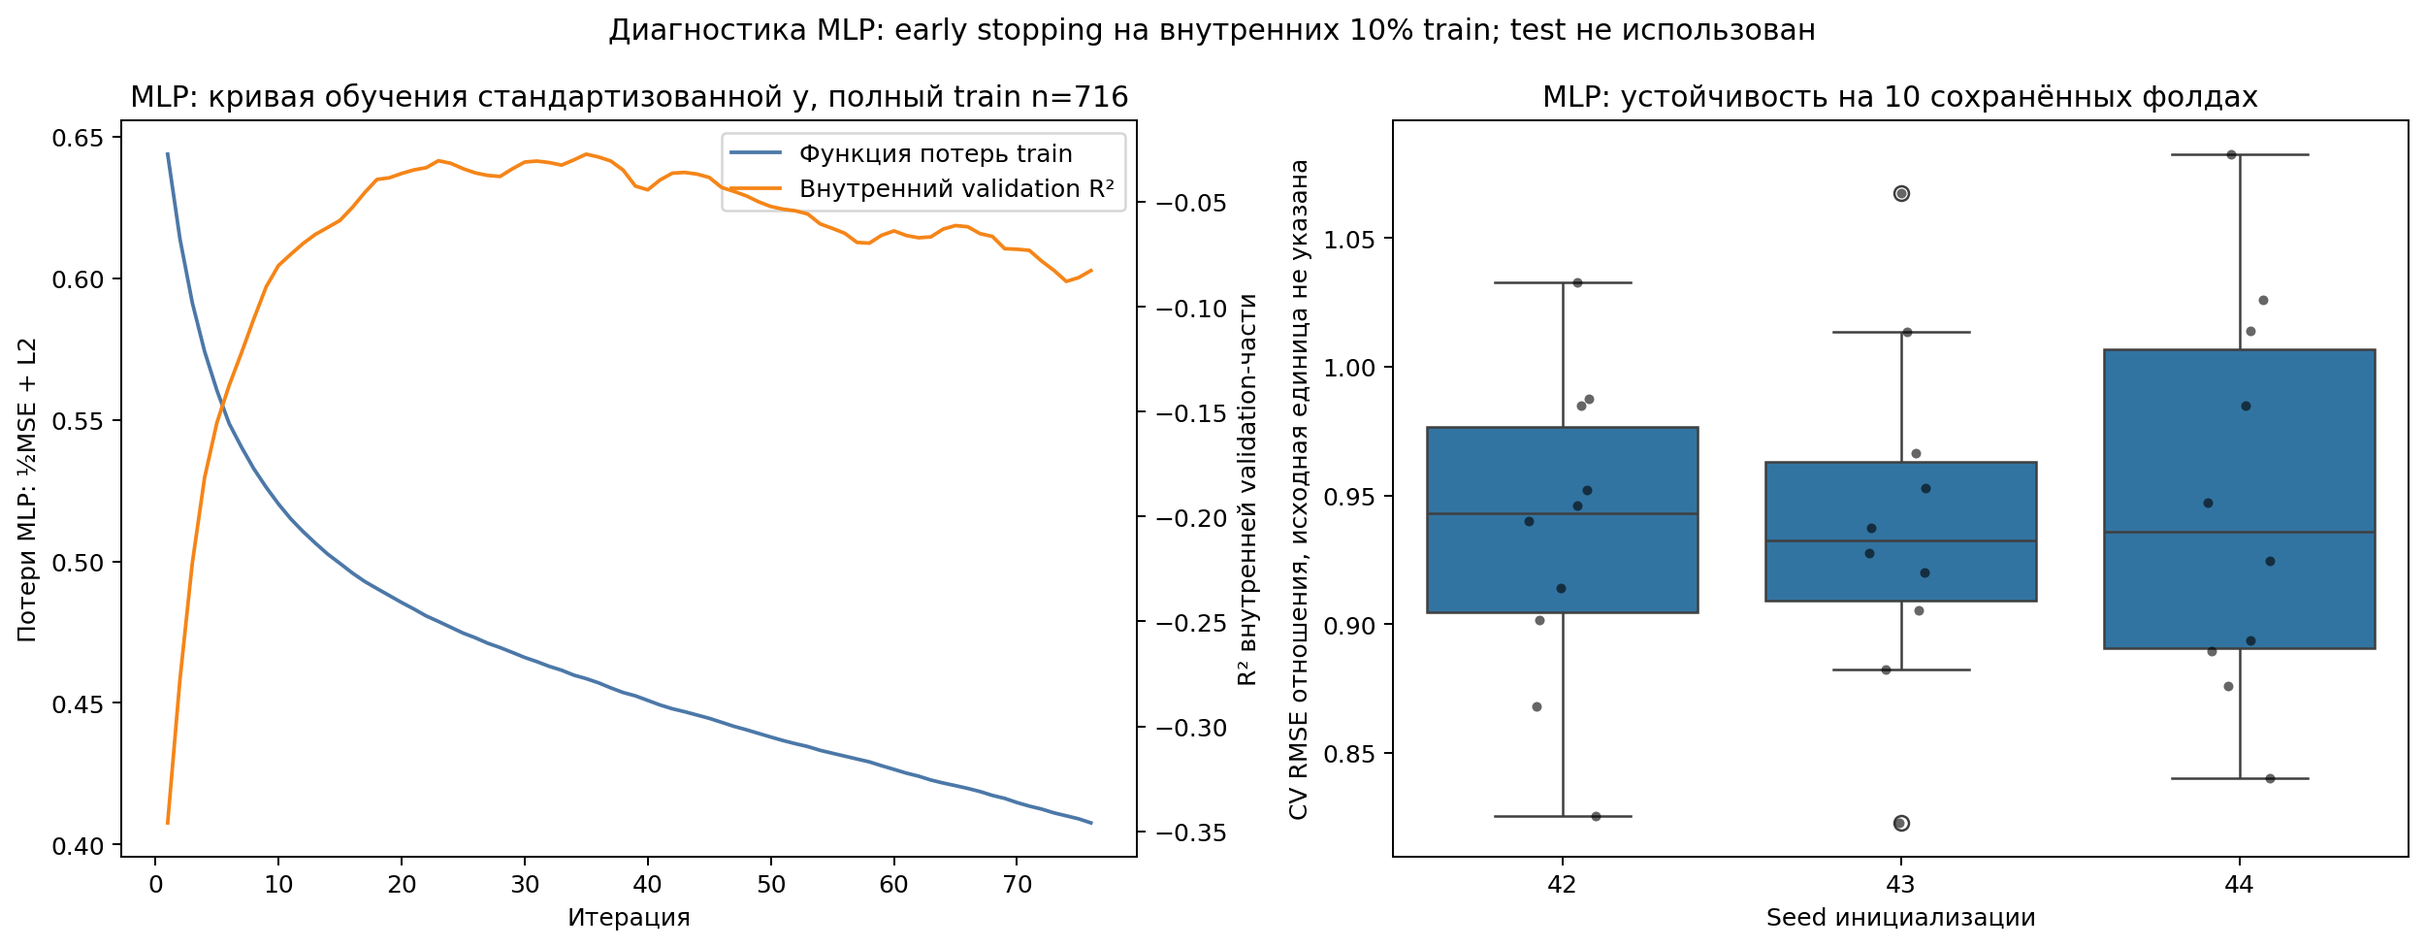
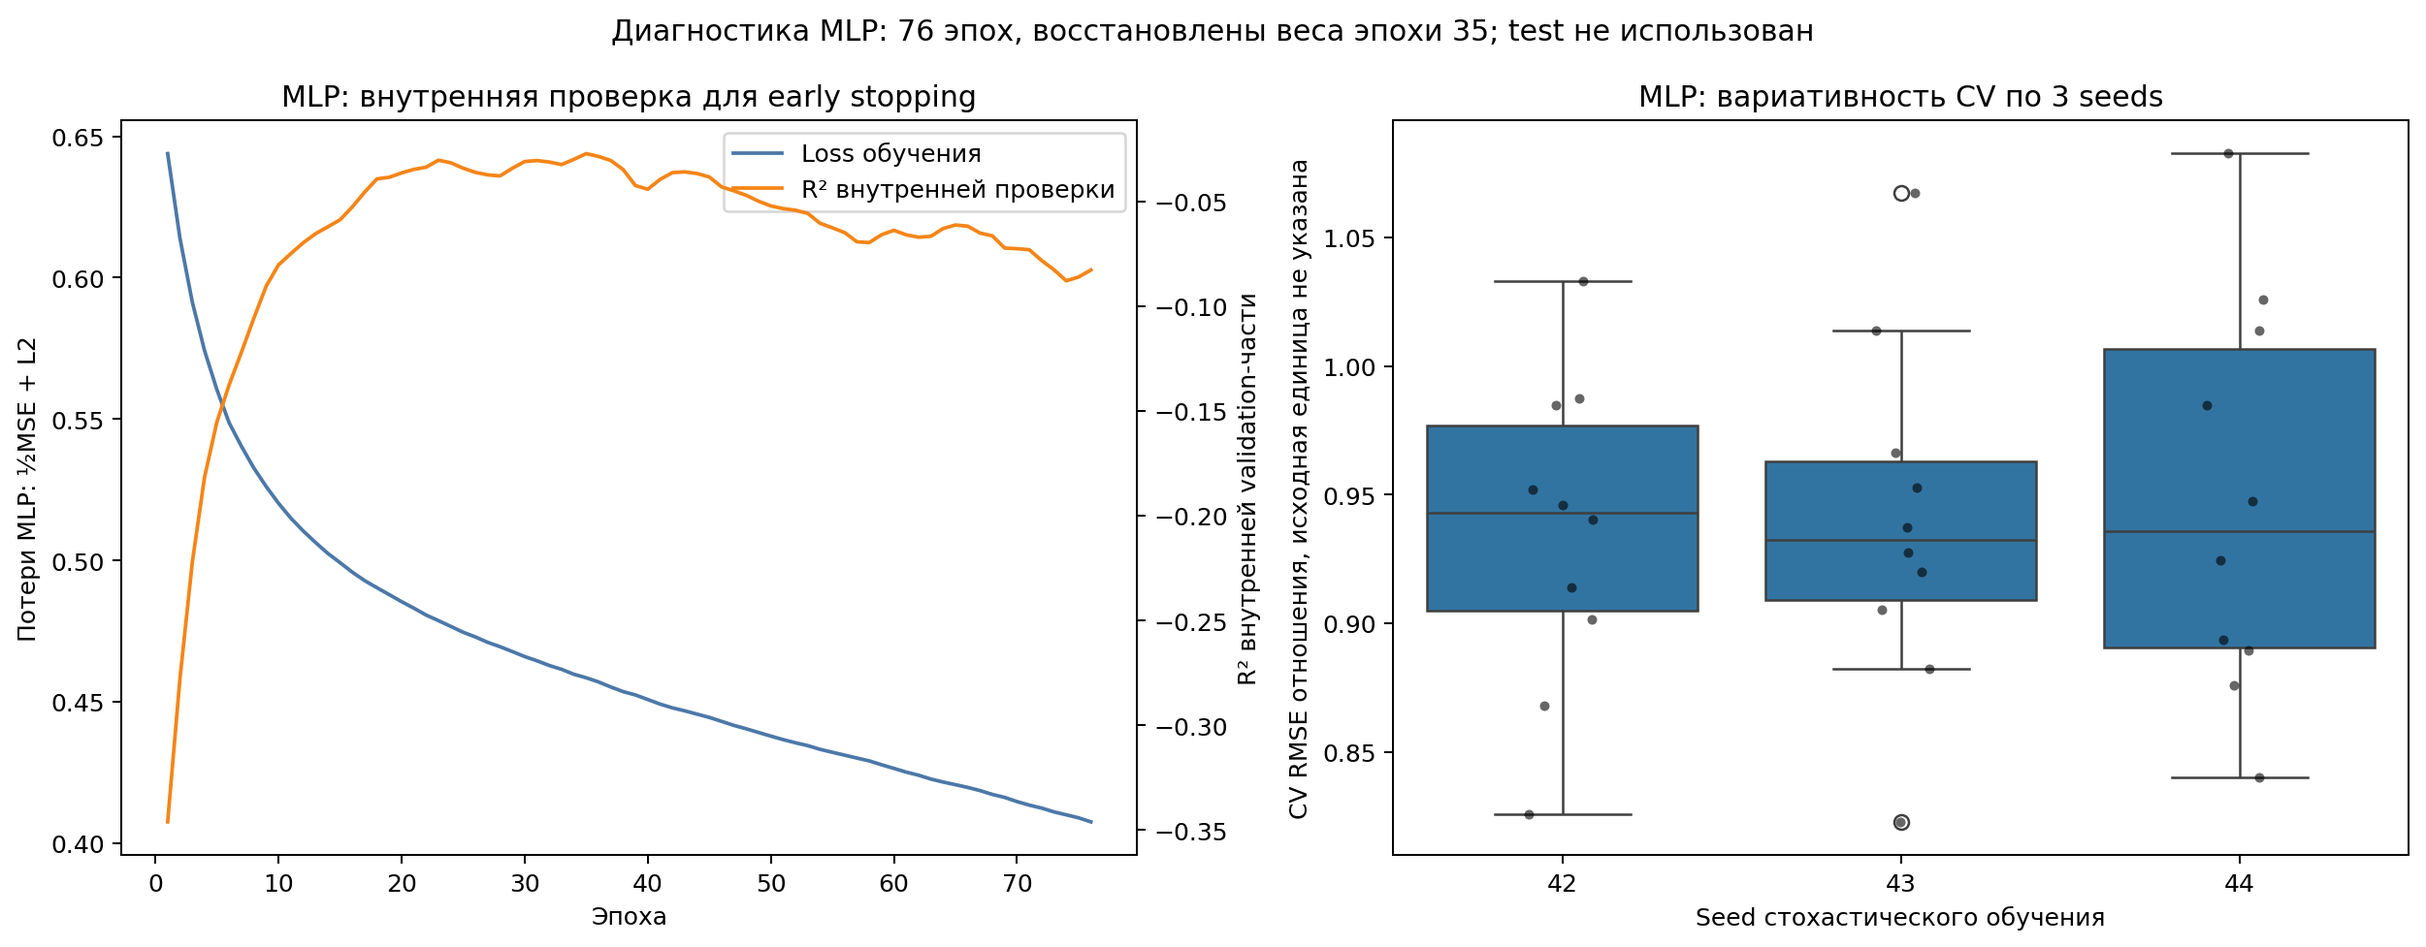
fix: verify model integrity and clarify neural diagnostics

diff --git a/src/composites/evaluation.py b/src/composites/evaluation.py
@@ -240,24 +240,29 @@ def _plot_residuals(predictions: pd.DataFrame, output: Path) -> None:
 def _plot_nn_diagnostics(modeling_dir: Path, output: Path) -> None:
     history = pd.read_csv(modeling_dir / "nn_history.csv")
     stability = pd.read_csv(modeling_dir / "nn_stability.csv")
+    epochs = int(history["iteration"].iloc[-1])
+    best_epoch = int(
+        history.loc[history["validation_score"].idxmax(), "iteration"]
+    )
+    seed_count = int(stability["seed"].nunique())
     fig, axes = plt.subplots(1, 2, figsize=(14, 5.5))
     loss_line = axes[0].plot(
         history["iteration"],
         history["loss"],
-        label="Функция потерь train",
+        label="Loss обучения",
         color="#4c78a8",
     )
     validation_axis = axes[0].twinx()
     validation_line = validation_axis.plot(
         history["iteration"],
         history["validation_score"],
-        label="Внутренний validation R²",
+        label="R² внутренней проверки",
         color="#f58518",
     )
-    axes[0].set_xlabel("Итерация")
+    axes[0].set_xlabel("Эпоха")
     axes[0].set_ylabel("Потери MLP: ½MSE + L2")
     validation_axis.set_ylabel("R² внутренней validation-части")
-    axes[0].set_title("MLP: кривая обучения стандартизованной y, полный train n=716")
+    axes[0].set_title("MLP: внутренняя проверка для early stopping")
     axes[0].legend(loss_line + validation_line, [line.get_label() for line in loss_line + validation_line])
     sns.boxplot(data=stability, x="seed", y="validation_rmse", ax=axes[1])
     sns.stripplot(
@@ -269,11 +274,12 @@ def _plot_nn_diagnostics(modeling_dir: Path, output: Path) -> None:
         size=4,
         ax=axes[1],
     )
-    axes[1].set_xlabel("Seed инициализации")
+    axes[1].set_xlabel("Seed стохастического обучения")
     axes[1].set_ylabel("CV RMSE отношения, исходная единица не указана")
-    axes[1].set_title("MLP: устойчивость на 10 сохранённых фолдах")
+    axes[1].set_title(f"MLP: вариативность CV по {seed_count} seeds")
     fig.suptitle(
-        "Диагностика MLP: early stopping на внутренних 10% train; test не использован"
+        f"Диагностика MLP: {epochs} эпох, восстановлены веса эпохи {best_epoch}; "
+        "test не использован"
     )
     fig.tight_layout()
     fig.savefig(output, dpi=180, bbox_inches="tight")
@@ -391,14 +397,16 @@ def _write_results(
     lines.extend(
         [
             "",
-            "Для модуля упругости CV выбрала средний baseline. Его прогноз постоянный, "
+            "Для модуля упругости среди испытанных семейств и зафиксированных сеток "
+            "CV выбрала средний baseline по минимуму средней RMSE. Его прогноз постоянный, "
             f"поэтому пермутационные важности равны нулю; test R² = {modulus_r2:.3f}. "
             "Нулевая важность здесь означает отсутствие использования признаков baseline, "
             "а не доказанную физическую незначимость факторов.",
             "",
-            "Для прочности выбрана Gradient Boosting, но её CV-преимущество над baseline "
-            f"было минимальным; test R² = {strength_r2:.3f}. Разрыв train/test следует "
-            "трактовать как ограничение обобщения, а не как промышленную точность.",
+            "Для прочности Gradient Boosting выбрана только по минимуму средней CV RMSE; "
+            "это правило выбора не доказывает статистическое или практически значимое "
+            f"превосходство над baseline. Test R² = {strength_r2:.3f} не подтверждает "
+            "промышленную точность.",
             "",
             "Обязательная MLP отношения уступила baseline ещё на CV и сохранялась по "
             f"условию задания; test R² = {ratio_r2:.3f}. Она оценивает отношение по полному "
@@ -412,8 +420,9 @@ def _write_results(
             "- В поле количества отвердителя 468 из 716 train-значений выше 100. Для "
             "массовой доли готовой смеси это невозможно, но база процентов неизвестна; "
             "наблюдения сохранены и синтетическое происхождение не заявляется.",
-            "- Происхождение наблюдений и группы опытов неизвестны. Случайный holdout "
-            "характеризует только эту выборку и не доказывает перенос на новые материалы.",
+            "- Происхождение наблюдений, партии и группы опытов неизвестны. Случайный "
+            "holdout оценивает прогноз для отложенных строк той же таблицы при данном "
+            "разбиении и не доказывает перенос на новые классы материалов.",
             "- Результаты не заменяют лабораторные испытания.",
             "",
             "## Рисунки",
@@ -422,8 +431,11 @@ def _write_results(
             "train/test, с исходными единицами целей и линией идеального прогноза.",
             "2. `residuals.png` — остатки факт минус прогноз для полных train/test; "
             "систематические структуры указывают на ограничения моделей.",
-            "3. `nn_diagnostics.png` — loss/validation score полного train-fit и CV RMSE "
-            "по seeds 42–44; seed не выбирался по test.",
+            "3. `nn_diagnostics.png` — early stopping восстановил веса лучшей эпохи. "
+            "Внутренние 10% не являются независимой оценкой: scalers "
+            "X/y обучены на всех 716 строках до внутреннего split; outer CV и test "
+            "оставались изолированы. Seeds 42–44 отражают совокупную стохастическую "
+            "вариативность инициализации, внутреннего split и мини-батчей.",
             "4. `permutation_importance.png` — рост test RMSE после перестановки признака; "
             "для baseline-модуля все значения нулевые по определению.",
             "   Для печати на A4 те же значения сохранены отдельными читаемыми файлами "
@@ -564,6 +576,7 @@ def run_evaluation(
             "features": list(task.features),
             "model_family": family,
             "artifact": Path(artifact).name,
+            "artifact_sha256": sha256_file(_resolve_artifact(project_root, artifact)),
             "cv_rmse": float(selection_task["selected_cv_rmse"]),
             "baseline_cv_rmse": float(selection_task["baseline_cv_rmse"]),
             "test_metrics": {

diff --git a/tests/test_inference.py b/tests/test_inference.py
@@ -1,5 +1,6 @@
 from __future__ import annotations
 
+import hashlib
 import json
 from pathlib import Path
 
@@ -43,12 +44,16 @@ def _write_models(models_dir: Path) -> dict[str, object]:
             [("regressor", DummyRegressor(strategy="constant", constant=10.0 * index))]
         ).fit(frame, np.arange(len(frame), dtype=float))
         joblib.dump(model, models_dir / artifact)
+        artifact_sha256 = hashlib.sha256(
+            (models_dir / artifact).read_bytes()
+        ).hexdigest()
         manifest["tasks"][task_name] = {
             "target": target,
             "unit": unit,
             "features": list(DIRECT_FEATURES),
             "model_family": "DummyRegressor baseline",
             "artifact": artifact,
+            "artifact_sha256": artifact_sha256,
             "cv_rmse": 2.0,
             "baseline_cv_rmse": 2.0,
             "test_metrics": {"rmse": 2.1, "mae": 1.5, "r2": 0.0},
@@ -111,3 +116,100 @@ def test_missing_manifest_and_artifact_are_reported(tmp_path: Path) -> None:
     )
     with pytest.raises(ModelUnavailableError, match="Не найден артефакт"):
         load_direct_predictor(broken_dir)
+
+
+@pytest.mark.parametrize("value", [None, "", "A" * 64, "0" * 63, "g" * 64])
+def test_missing_or_malformed_artifact_hash_is_rejected(
+    tmp_path: Path, value: object
+) -> None:
+    models_dir = tmp_path / "models"
+    manifest = _write_models(models_dir)
+    first_task = next(iter(DIRECT_TASKS))
+    if value is None:
+        manifest["tasks"][first_task].pop("artifact_sha256")
+    else:
+        manifest["tasks"][first_task]["artifact_sha256"] = value
+    (models_dir / "model_manifest.json").write_text(
+        json.dumps(manifest, ensure_ascii=False), encoding="utf-8"
+    )
+
+    with pytest.raises(InferenceError, match="artifact_sha256"):
+        load_direct_predictor(models_dir)
+
+
+def test_changed_artifact_is_rejected_before_deserialization(
+    tmp_path: Path, monkeypatch
+) -> None:
+    models_dir = tmp_path / "models"
+    manifest = _write_models(models_dir)
+    first_task = next(iter(DIRECT_TASKS))
+    artifact = models_dir / manifest["tasks"][first_task]["artifact"]
+    artifact.write_bytes(artifact.read_bytes() + b"changed")
+    load_calls: list[Path] = []
+    original_load = joblib.load
+
+    def recording_load(path: Path):
+        load_calls.append(Path(path))
+        return original_load(path)
+
+    monkeypatch.setattr("composites.inference.joblib.load", recording_load)
+    with pytest.raises(InferenceError, match="не совпадает"):
+        load_direct_predictor(models_dir)
+    assert load_calls == []
+
+
+def test_swapped_artifact_is_rejected_before_deserialization(
+    tmp_path: Path, monkeypatch
+) -> None:
+    models_dir = tmp_path / "models"
+    manifest = _write_models(models_dir)
+    first_task, second_task = DIRECT_TASKS
+    first_artifact = models_dir / manifest["tasks"][first_task]["artifact"]
+    second_artifact = models_dir / manifest["tasks"][second_task]["artifact"]
+    first_artifact.write_bytes(second_artifact.read_bytes())
+    monkeypatch.setattr(
+        "composites.inference.joblib.load",
+        lambda path: pytest.fail("joblib.load called before SHA-256 verification"),
+    )
+
+    with pytest.raises(InferenceError, match="не совпадает"):
+        load_direct_predictor(models_dir)
+
+
+def test_unreadable_artifact_hash_is_reported_before_deserialization(
+    tmp_path: Path, monkeypatch
+) -> None:
+    models_dir = tmp_path / "models"
+    _write_models(models_dir)
+    monkeypatch.setattr(
+        "composites.inference.sha256_file",
+        lambda path: (_ for _ in ()).throw(OSError("read failed")),
+    )
+    monkeypatch.setattr(
+        "composites.inference.joblib.load",
+        lambda path: pytest.fail("joblib.load called before SHA-256 verification"),
+    )
+
+    with pytest.raises(ModelUnavailableError, match="проверки SHA-256"):
+        load_direct_predictor(models_dir)
+
+
+def test_model_feature_order_must_match_manifest(tmp_path: Path) -> None:
+    models_dir = tmp_path / "models"
+    manifest = _write_models(models_dir)
+    first_task = next(iter(DIRECT_TASKS))
+    artifact = models_dir / manifest["tasks"][first_task]["artifact"]
+    reversed_frame = _valid_frame(4).loc[:, list(reversed(DIRECT_FEATURES))]
+    model = Pipeline([("regressor", DummyRegressor())]).fit(
+        reversed_frame, np.arange(len(reversed_frame), dtype=float)
+    )
+    joblib.dump(model, artifact)
+    manifest["tasks"][first_task]["artifact_sha256"] = hashlib.sha256(
+        artifact.read_bytes()
+    ).hexdigest()
+    (models_dir / "model_manifest.json").write_text(
+        json.dumps(manifest, ensure_ascii=False), encoding="utf-8"
+    )
+
+    with pytest.raises(InferenceError, match="составу или порядку"):
+        load_direct_predictor(models_dir)

diff --git a/src/composites/inference.py b/src/composites/inference.py
@@ -7,6 +7,7 @@ from dataclasses import dataclass
 import json
 import math
 from pathlib import Path
+import re
 from typing import Any
 
 import joblib
@@ -14,6 +15,7 @@ import numpy as np
 import pandas as pd
 from pandas.api.types import is_numeric_dtype
 
+from composites.data import sha256_file
 from composites.schema import (
     DIRECT_FEATURES,
     PATCH_ANGLE,
@@ -158,6 +160,14 @@ def load_direct_predictor(models_dir: str | Path) -> DirectPredictor:
             )
         model_family = _required_text(raw, "model_family", task_name)
         artifact_text = _required_text(raw, "artifact", task_name)
+        artifact_sha256 = raw.get("artifact_sha256")
+        if not isinstance(artifact_sha256, str) or re.fullmatch(
+            r"[0-9a-f]{64}", artifact_sha256
+        ) is None:
+            raise InferenceError(
+                f"Задача {task_name!r}: artifact_sha256 должен быть "
+                "SHA-256 из 64 строчных hex-символов."
+            )
         artifact_relative = Path(artifact_text)
         if artifact_relative.is_absolute():
             raise InferenceError(f"Artifact задачи {task_name!r} должен быть относительным.")
@@ -168,6 +178,18 @@ def load_direct_predictor(models_dir: str | Path) -> DirectPredictor:
         if not artifact_path.is_file():
             raise ModelUnavailableError(
                 f"Не найден артефакт обученной модели: {artifact_relative.as_posix()}."
+            )
+        try:
+            actual_sha256 = sha256_file(artifact_path)
+        except OSError as exc:
+            raise ModelUnavailableError(
+                f"Не удалось прочитать артефакт {artifact_relative.as_posix()} "
+                "для проверки SHA-256."
+            ) from exc
+        if actual_sha256 != artifact_sha256:
+            raise InferenceError(
+                f"Задача {task_name!r}: SHA-256 артефакта "
+                f"{artifact_relative.as_posix()} не совпадает с manifest."
             )
 
         ranges = _feature_ranges(raw.get("train_feature_ranges"), task_name)
@@ -203,6 +225,12 @@ def load_direct_predictor(models_dir: str | Path) -> DirectPredictor:
             ) from exc
         if not callable(getattr(model, "predict", None)):
             raise InferenceError(f"Артефакт задачи {task_name!r} не имеет метода predict.")
+        model_feature_names = getattr(model, "feature_names_in_", None)
+        if model_feature_names is not None and tuple(model_feature_names) != tuple(features):
+            raise InferenceError(
+                f"Артефакт задачи {task_name!r} обучен на признаках, которые "
+                "не совпадают с manifest по составу или порядку."
+            )
 
         loaded[task_name] = LoadedTask(
             name=task_name,

diff --git a/tests/test_app.py b/tests/test_app.py
@@ -1,5 +1,6 @@
 from __future__ import annotations
 
+import hashlib
 import json
 from pathlib import Path
 
@@ -42,6 +43,9 @@ def _fixture_models(models_dir: Path) -> None:
             "features": list(DIRECT_FEATURES),
             "model_family": "baseline DummyRegressor",
             "artifact": artifact,
+            "artifact_sha256": hashlib.sha256(
+                (models_dir / artifact).read_bytes()
+            ).hexdigest(),
             "cv_rmse": 1.0,
             "baseline_cv_rmse": 1.0,
             "test_metrics": {"rmse": 1.1, "mae": 0.9, "r2": 0.0},

diff --git a/tests/test_evaluation.py b/tests/test_evaluation.py
@@ -92,6 +92,13 @@ def test_manifest_loads_real_direct_models_and_predicts() -> None:
         and len(Path(item["artifact"]).parts) == 1
         for item in manifest["tasks"].values()
     )
+    assert all(
+        item["artifact_sha256"]
+        == hashlib.sha256(
+            (PROJECT_ROOT / "models" / item["artifact"]).read_bytes()
+        ).hexdigest()
+        for item in manifest["tasks"].values()
+    )
 
     predictor = load_direct_predictor(PROJECT_ROOT / "models")
     frame = pd.DataFrame([predictor.defaults()])
